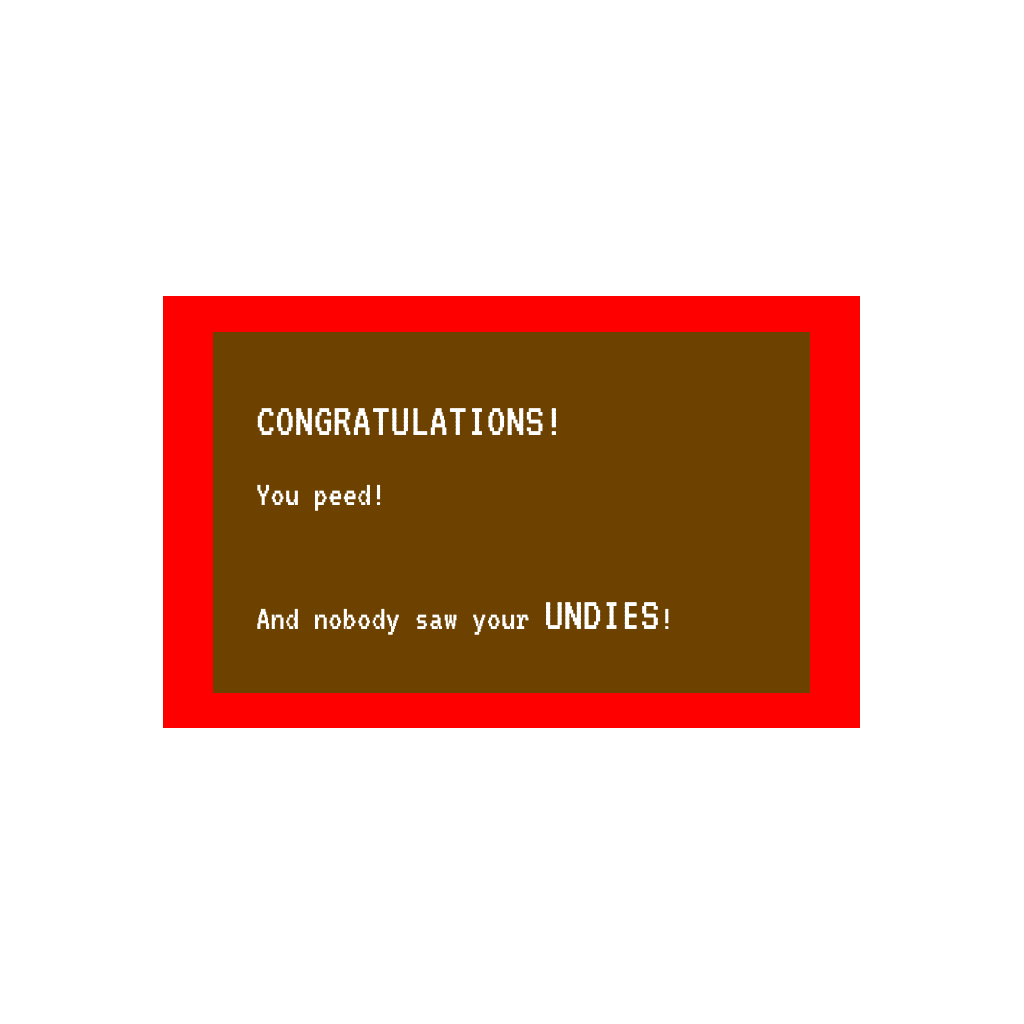
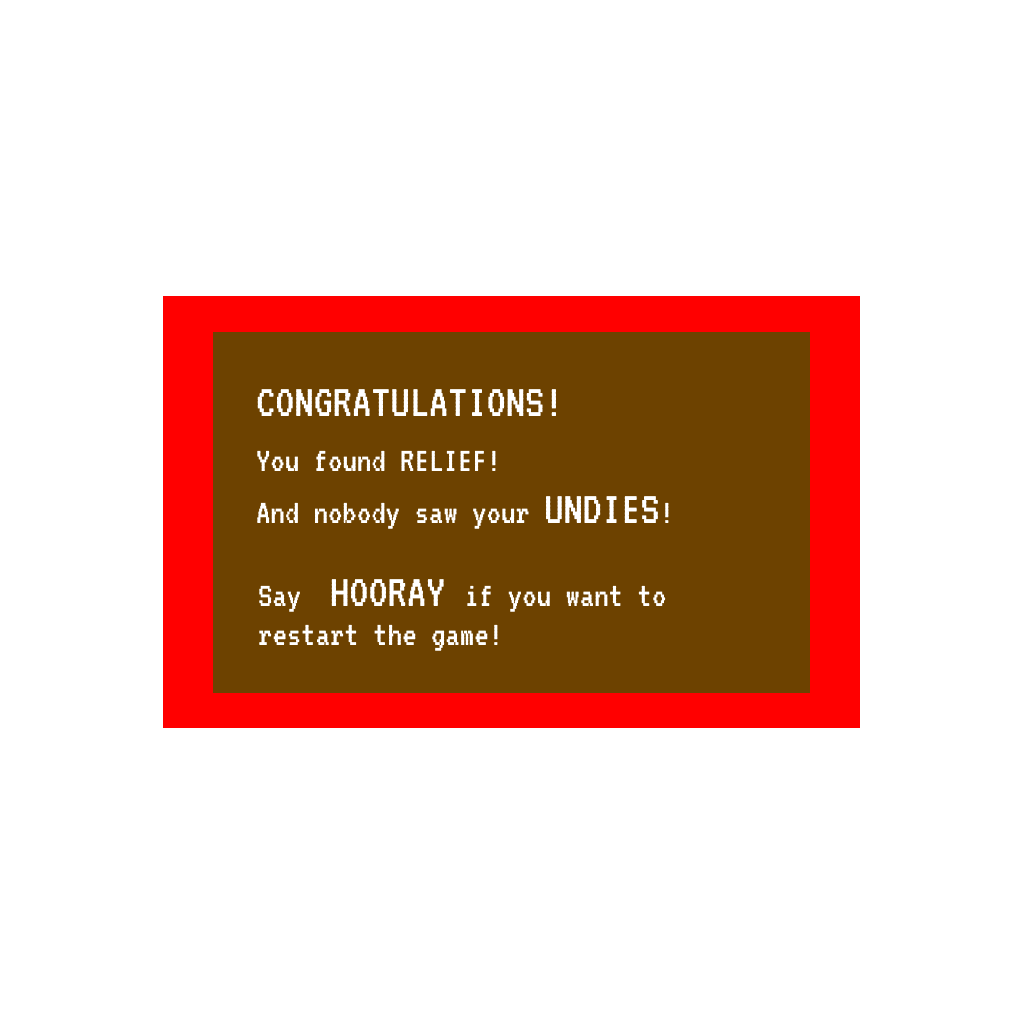
add game end screen and restart

Changed region(s): [[0.25, 0.375, 0.5625, 0.5312], [0.25, 0.5625, 0.6562, 0.6562], [0.5312, 0.4688, 0.6562, 0.5312]]

diff --git a/source/game/game.cpp b/source/game/game.cpp
@@ -350,6 +350,9 @@ void Game::level_finished_to_menu()
 
 	switch (_level_num)
 	{
+	case MAX_LEVEL:
+		render_manager->load_sprite_component(_background, "data/graphics/win.png");
+		break;
 	case 0:
 		_logo->set_enabled(false);
 		render_manager->load_sprite_component(_background, "data/graphics/stage1.png");
@@ -366,10 +369,7 @@ void Game::level_finished_to_menu()
 	case 4:
 		render_manager->load_sprite_component(_background, "data/graphics/stage5.png");
 		break;
-	case 5:
-		render_manager->load_sprite_component(_background, "data/graphics/stage6.png");
-		break;
-	case 6:
+	/*case 6:
 		render_manager->load_sprite_component(_background, "data/graphics/stage7.png");
 		break;
 	case 7:
@@ -383,7 +383,7 @@ void Game::level_finished_to_menu()
 		break;
 	case 10:
 		render_manager->load_sprite_component(_background, "data/graphics/win.png");
-		break;
+		break;//*/
 	default:
 		break;
 	}
@@ -392,13 +392,15 @@ void Game::level_finished_to_menu()
 	_background->set_position((LevelManager::get()->MAX_X / 2) * 32, (LevelManager::get()->MAX_Y / 2) * 32 - 64);
 
 
-	if (_level_num == 10)
+	if (_level_num == MAX_LEVEL)
 	{
 		render_manager->load_sprite_component(_left_player, "data/graphics/hooray.png");
+		render_manager->load_sprite_component(_right_player, "data/graphics/exitgame.png");
 	}
 	else
 	{
 		render_manager->load_sprite_component(_left_player, "data/graphics/letsgo.png");
+		render_manager->load_sprite_component(_right_player, "data/graphics/giveup.png");
 	}
 	_left_player->set_origin(16.0f, 16.0f);
 	_left_player->set_scale(_left_scale, _left_scale);
@@ -406,14 +408,6 @@ void Game::level_finished_to_menu()
 
 
 
-	if (_level_num == 10)
-	{
-		render_manager->load_sprite_component(_right_player, "data/graphics/pants.png");
-	}
-	else
-	{
-		render_manager->load_sprite_component(_right_player, "data/graphics/giveup.png");
-	}
 	_right_player->set_origin(16.0f, 16.0f);
 	_right_player->set_scale(_right_scale, _right_scale);
 	_right_player->set_position((LevelManager::get()->MAX_X / 4) * 3 * 32, (LevelManager::get()->MAX_Y - 4) * 32);
@@ -501,13 +495,17 @@ void Game::menu_to_new_level(sf::Event& e)
         {
             if (_end_selected)
             {
+
                 _game_state = GameState::EXIT;
             }
             else
             {
                 SoundManager::get()->stop_sound("level_complete");
                 deload_level();
-                ++_level_num;
+				if (++_level_num > MAX_LEVEL)
+				{
+					_level_num = 1;
+				}
 
                 _game_state = GameState::MENU_TO_GAME;
             }
@@ -639,7 +637,7 @@ void Game::load_level_01()
         _enemies.push_back(enemy);
     }
 
-    LevelManager::get()->load_level("data/level_02.txt");
+    LevelManager::get()->load_level("data/level_01.txt");
 }
 
 void Game::load_level_02()

diff --git a/source/game/game.hpp b/source/game/game.hpp
@@ -26,6 +26,8 @@ private:
         EXIT
     };
 
+	const static int MAX_LEVEL = 5;
+
 public:
 
     Game();
